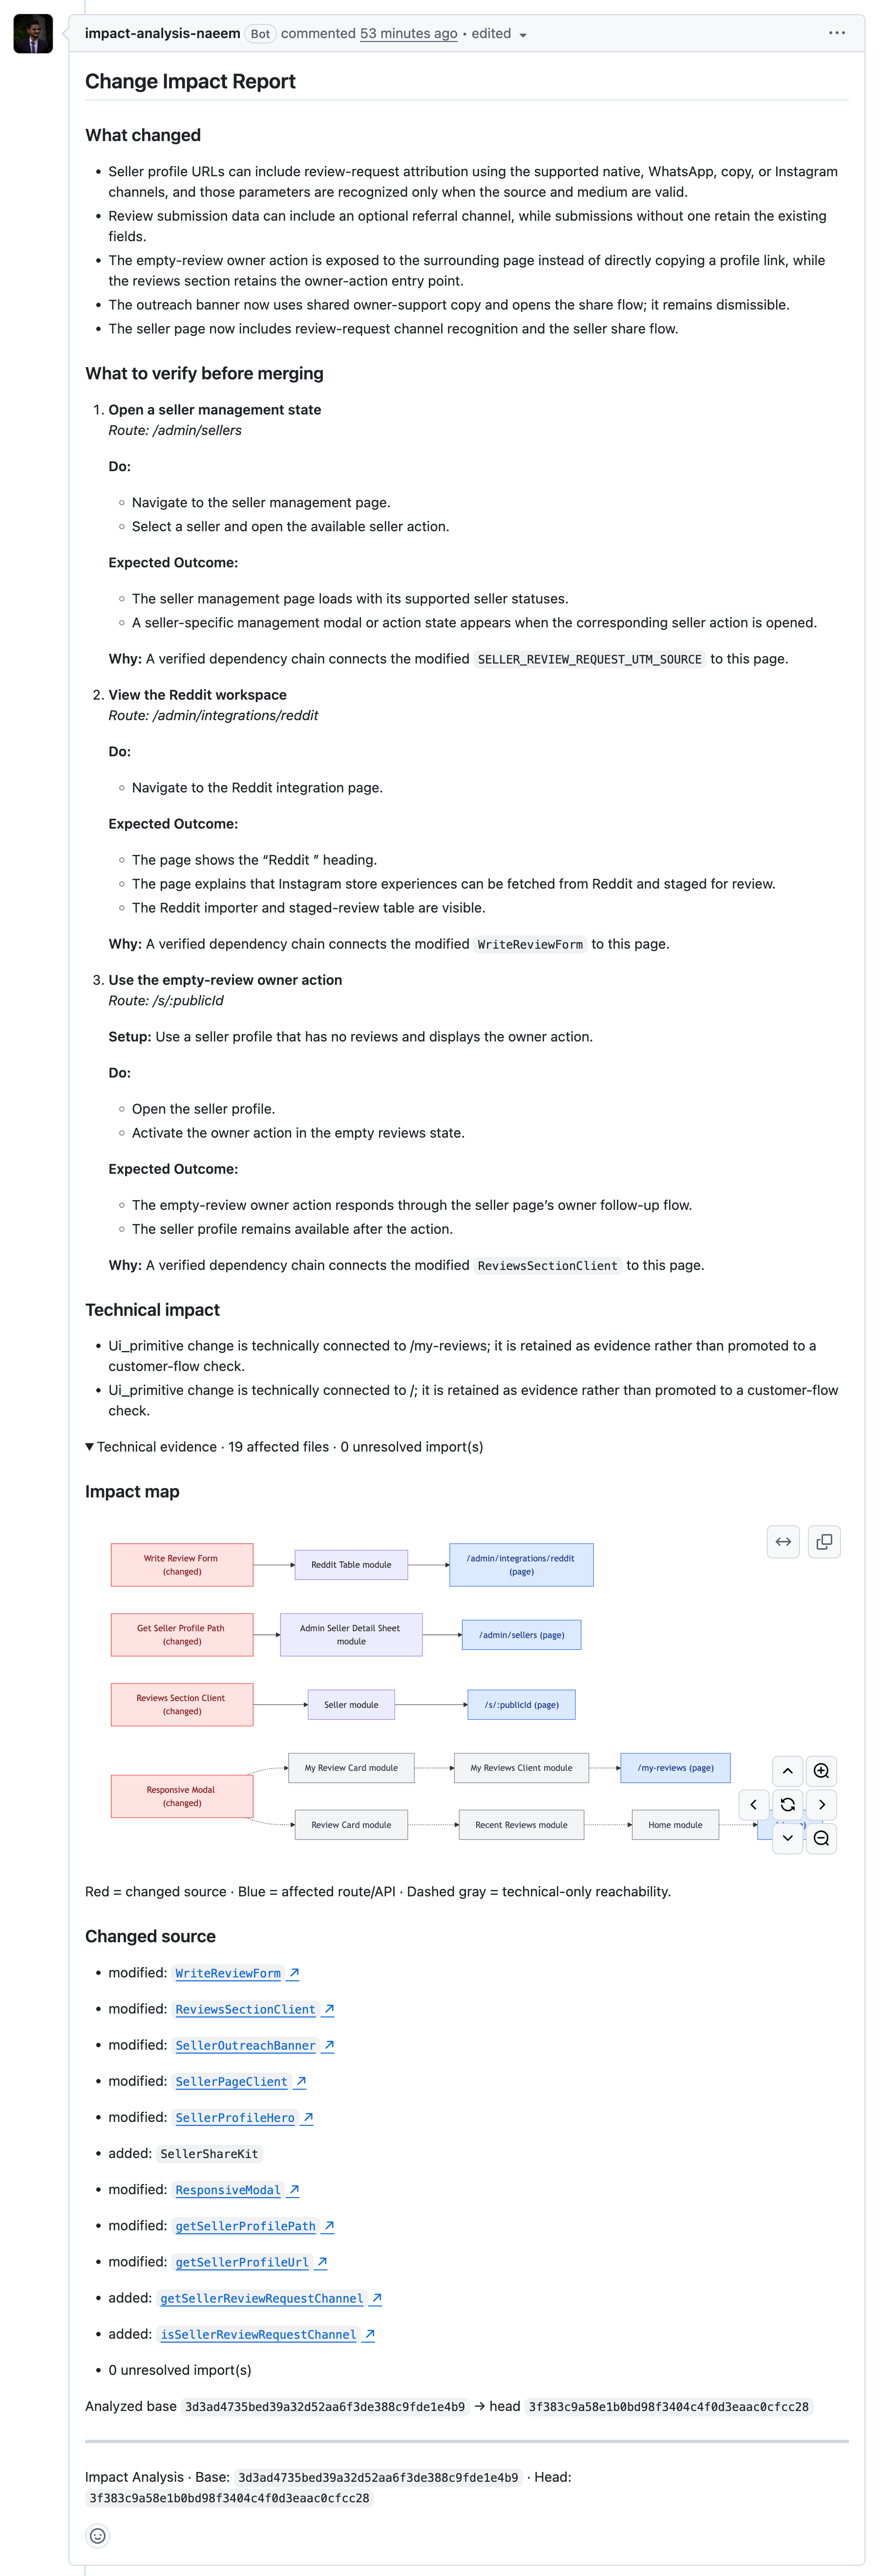
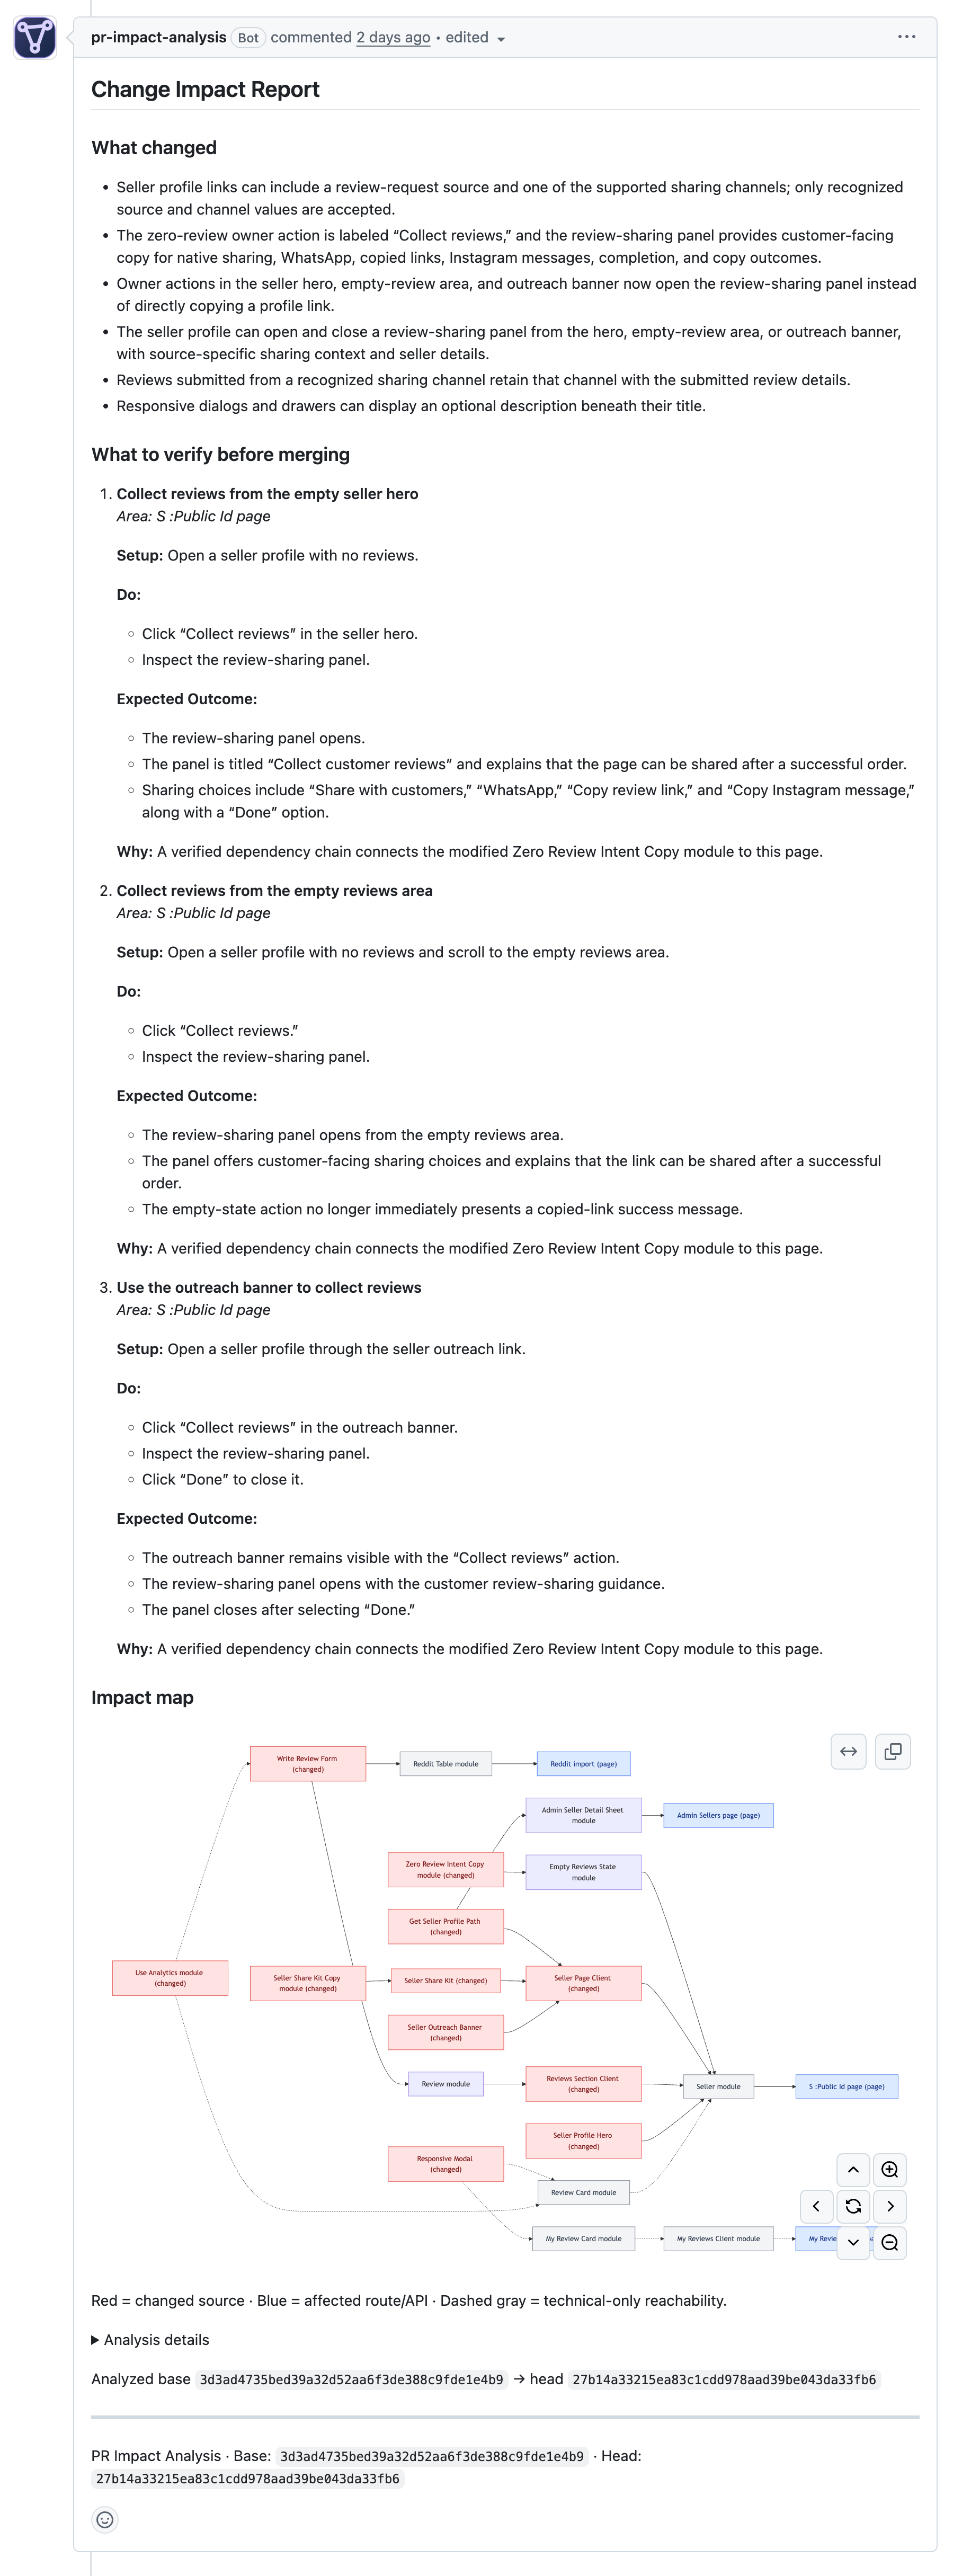
fix: extract interactions inside mapped JSX

diff --git a/scripts/phase5.report.test.ts b/scripts/phase5.report.test.ts
@@ -477,6 +477,72 @@ test("semantic context includes every eligible prioritized route instead of trun
   assert.deepEqual(input.targets.map((target) => target.path), Array.from({ length: 6 }, (_, index) => `src/app/checkout-${index + 1}/page.tsx`));
 });
 
+test("semantic context finds navigation controls rendered inside a map callback", async () => {
+  const navigation = [
+    "import Link from 'next/link';",
+    "const items = [{ href: '/', label: 'Chat', page: 'chat' }, { href: '/upload', label: 'Upload documents', page: 'upload' }];",
+    "export default function AppNavigation({ activePage }: { activePage: string }) {",
+    "  return <nav aria-label=\"Assistant navigation\">{items.map((item) => {",
+    "    const isActive = item.page === activePage;",
+    "    return <Link href={item.href} aria-current={isActive ? 'page' : undefined}>{item.label}</Link>;",
+    "  })}</nav>;",
+    "}",
+  ].join("\n");
+  const base: SourceFile[] = [];
+  const head: SourceFile[] = [
+    { path: "src/components/AppNavigation.tsx", blobSha: "navigation", content: navigation },
+    { path: "src/app/page.tsx", blobSha: "home", content: "import AppNavigation from '@/components/AppNavigation';\nexport default function Home() { return <main><h1>AI Assistant</h1><AppNavigation activePage=\"chat\" /></main>; }\n" },
+    { path: "src/app/upload/page.tsx", blobSha: "upload", content: "import AppNavigation from '@/components/AppNavigation';\nexport default function Upload() { return <main><h1>Upload Documents</h1><AppNavigation activePage=\"upload\" /></main>; }\n" },
+  ];
+  const bySha = new Map([[
+    "base", base,
+  ], ["head", head]]);
+  const reader: RepositoryReader = {
+    resolveRepository: async () => ({ owner: "acme", name: "assistant", defaultBranch: "main" }),
+    resolveBranchSha: async () => "head",
+    fetchSource: async () => { throw new Error("not used"); },
+    fetchTree: async () => head.map((file) => ({ path: file.path, blobSha: file.blobSha })),
+    fetchFiles: async ({ sha, paths }) => (bySha.get(sha) ?? []).filter((file) => paths.includes(file.path)),
+    compareCommits: async () => ({ comparable: true, reason: null, changes: [] }),
+  };
+  const navigationAssessment: ImpactAssessment = {
+    version: 2,
+    status: "ready",
+    items: [
+      {
+        path: "src/app/page.tsx",
+        kind: "page",
+        tier: "secondary",
+        changedSeedPath: "src/components/AppNavigation.tsx",
+        technicalRole: "presentation",
+        technicalRoleReason: "shared navigation fixture",
+        impact: "indirect",
+        dependencyPath: ["src/components/AppNavigation.tsx", "src/app/page.tsx"],
+        reason: "Secondary fixture.",
+      },
+      {
+        path: "src/app/upload/page.tsx",
+        kind: "page",
+        tier: "secondary",
+        changedSeedPath: "src/components/AppNavigation.tsx",
+        technicalRole: "presentation",
+        technicalRoleReason: "shared navigation fixture",
+        impact: "indirect",
+        dependencyPath: ["src/components/AppNavigation.tsx", "src/app/upload/page.tsx"],
+        reason: "Secondary fixture.",
+      },
+    ],
+  };
+  const input = await buildPrSemanticContext(
+    { ...analysis(), changedFiles: [{ path: "src/components/AppNavigation.tsx", status: "added", graphRelevant: true }] },
+    navigationAssessment,
+    reader,
+    { config: { repoId: 1, installationId: 1, owner: "acme", name: "assistant", trackedBranch: "main", aiAssistanceEnabled: true } },
+  );
+  assert.deepEqual(input.targets.map((target) => target.path), ["src/app/page.tsx", "src/app/upload/page.tsx"]);
+  assert.ok(input.targets.every((target) => target.anchors.some((anchor) => anchor.kind === "interaction")));
+});
+
 test("a directly changed route retains a changed component path for scenario grounding", async () => {
   const base: SourceFile[] = [
     { path: "src/app/upload/page.tsx", blobSha: "base-page", content: "import FileUpload from '../../components/FileUpload';\nexport default function UploadPage() { return <main><FileUpload /></main>; }\n" },

diff --git a/src/server/landing-page.ts b/src/server/landing-page.ts
@@ -1,6 +1,9 @@
 const REPOSITORY_URL = "https://github.com/naeemdadi/impact-analysis";
 const README_URL = `${REPOSITORY_URL}#readme`;
 const ARCHITECTURE_URL = `${REPOSITORY_URL}/blob/main/docs/ARCHITECTURE.md`;
+const DEMO_VIDEO_URL = "https://youtu.be/FK4TzBxY6dY";
+const DEMO_PULL_REQUEST_URL =
+  "https://github.com/naeemdadi/rag-chatbot-assistant/pull/6";
 
 /**
  * A public, static product page. It deliberately contains no operational state:
@@ -183,6 +186,7 @@ export function renderLandingPage(): string {
         <div class="nav-links">
           <a href="#how-it-works">How it works</a>
           <a href="#reports">Reports</a>
+          <a href="${DEMO_VIDEO_URL}" target="_blank" rel="noopener noreferrer">Watch demo ↗</a>
           <a class="nav-github" href="${README_URL}" target="_blank" rel="noopener noreferrer">README &amp; setup ↗</a>
         </div>
       </nav>
@@ -196,16 +200,16 @@ export function renderLandingPage(): string {
             <h1 id="hero-heading">Know what to <span class="gradient-text">verify</span> before merging.</h1>
             <p class="lede">PR Impact Analysis traces pull-request changes through your codebase, identifies the routes that can truly be reached, and posts practical verification guidance directly on the PR.</p>
             <div class="hero-actions">
-              <a class="button button-primary" href="#reports">See real reports <svg viewBox="0 0 24 24" fill="none" stroke="currentColor" stroke-width="2.2" aria-hidden="true"><path d="M5 12h14M13 6l6 6-6 6"/></svg></a>
-              <a class="button button-secondary" href="${ARCHITECTURE_URL}" target="_blank" rel="noopener noreferrer">Explore the architecture ↗</a>
+              <a class="button button-primary" href="${DEMO_VIDEO_URL}" target="_blank" rel="noopener noreferrer">Watch the demo video ↗</a>
+              <a class="button button-secondary" href="${DEMO_PULL_REQUEST_URL}" target="_blank" rel="noopener noreferrer">Open the live PR comment ↗</a>
             </div>
             <p class="proof"><span><b class="check">✓</b> Deterministic graph evidence</span><span><b class="check">✓</b> GPT-5.6, bounded by source citations</span></p>
           </div>
 
-          <a class="report-window" href="/images/PR-1.png" target="_blank" rel="noopener noreferrer" aria-label="Open a full-size example PR Impact Analysis pull request report">
+          <a class="report-window" href="${DEMO_PULL_REQUEST_URL}" target="_blank" rel="noopener noreferrer" aria-label="Open the public demo pull request with the live PR Impact Analysis comment">
             <div class="window-bar" aria-hidden="true"><span class="window-dots"><i></i><i></i><i></i></span><span class="window-pill">github.com · pull request</span></div>
             <img src="/images/PR-1.png" alt="A PR Impact Analysis pull request report showing changes, verification guidance, and technical evidence." />
-            <span class="report-label">A real sticky PR comment ↗</span>
+            <span class="report-label">Open the live sticky PR comment ↗</span>
           </a>
         </section>
 
@@ -268,15 +272,15 @@ export function renderLandingPage(): string {
 
         <section class="demo" aria-labelledby="demo-heading">
           <div>
-            <p class="section-tag">Evidence-first PR review</p>
-            <h2 id="demo-heading">A dependable second set of eyes before merge.</h2>
-            <p>PR Impact Analysis combines deterministic graph evidence with GPT-5.6 guidance. The model receives only bounded, cited PR context and cannot establish impact on its own.</p>
+            <p class="section-tag">Watch it work</p>
+            <h2 id="demo-heading">See the review loop on a real pull request.</h2>
+            <p>Watch the three-minute walkthrough, then inspect the public PR to see the sticky report, source-grounded verification guidance, and evidence map in GitHub.</p>
             <div class="demo-actions">
-              <a class="button button-primary" href="${README_URL}" target="_blank" rel="noopener noreferrer">Read the README &amp; setup guide ↗</a>
-              <a class="button button-secondary" href="${ARCHITECTURE_URL}" target="_blank" rel="noopener noreferrer">Read architecture docs ↗</a>
+              <a class="button button-primary" href="${DEMO_VIDEO_URL}" target="_blank" rel="noopener noreferrer">Watch the demo video ↗</a>
+              <a class="button button-secondary" href="${DEMO_PULL_REQUEST_URL}" target="_blank" rel="noopener noreferrer">Open demo PR #6 ↗</a>
             </div>
           </div>
-          <div class="demo-badge" aria-hidden="true"><em>Graph + AI</em>Evidence<br />first</div>
+          <div class="demo-badge" aria-hidden="true"><em>Live demo</em>Video<br />+ PR</div>
         </section>
       </div>
     </main>

diff --git a/src/report/pr-semantic-context.ts b/src/report/pr-semantic-context.ts
@@ -407,7 +407,13 @@ function behaviorAnchors(source: ts.SourceFile, file: SourceFile, targetIndex: n
     }
     if (ts.isCallExpression(node)) {
       const name = calledName(node.expression);
+      // Calls such as `items.map(...)` often contain the actual JSX controls
+      // returned to a user. Do not stop traversal at an unrelated helper call,
+      // or navigation and data-driven control lists lose their only observable
+      // interaction anchor. Recognized user-action calls are still bounded by
+      // `add`, then their children are traversed for more precise evidence.
       if (/^(?:open|close|submit|save|create|delete|redirect|push|replace|review)/i.test(name)) add("interaction", `User action ${humanizeIdentifier(name)}`, node);
+      ts.forEachChild(node, visit);
       return;
     }
     if (ts.isReturnStatement(node) && /(?:Response|NextResponse)\.(?:json|redirect)|new Response/.test(node.getText(source))) {

diff --git a/README.md b/README.md
@@ -11,10 +11,6 @@ prioritized, source-grounded verification guidance.
 [Architecture](docs/ARCHITECTURE.md) ·
 [GitHub App setup](github-app/manifest.md)
 
-<p align="center">
-  <a href="images/PR-2.png"><img src="images/PR-2.png" width="480" alt="A PR Impact Analysis sticky pull request comment with change summary, verification guidance, and collapsed technical evidence." /></a>
-</p>
-
 ## The problem
 
 AI-assisted “vibe coding” has made it possible to build and deploy more code